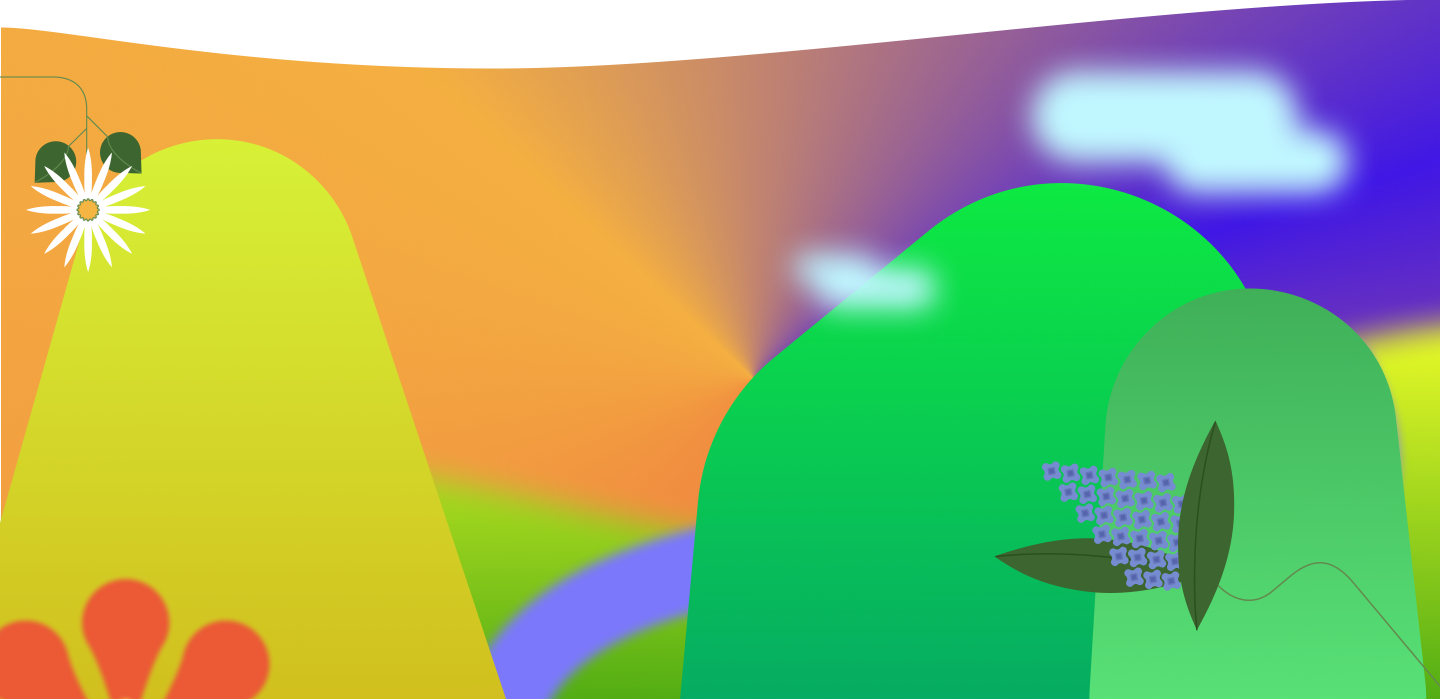
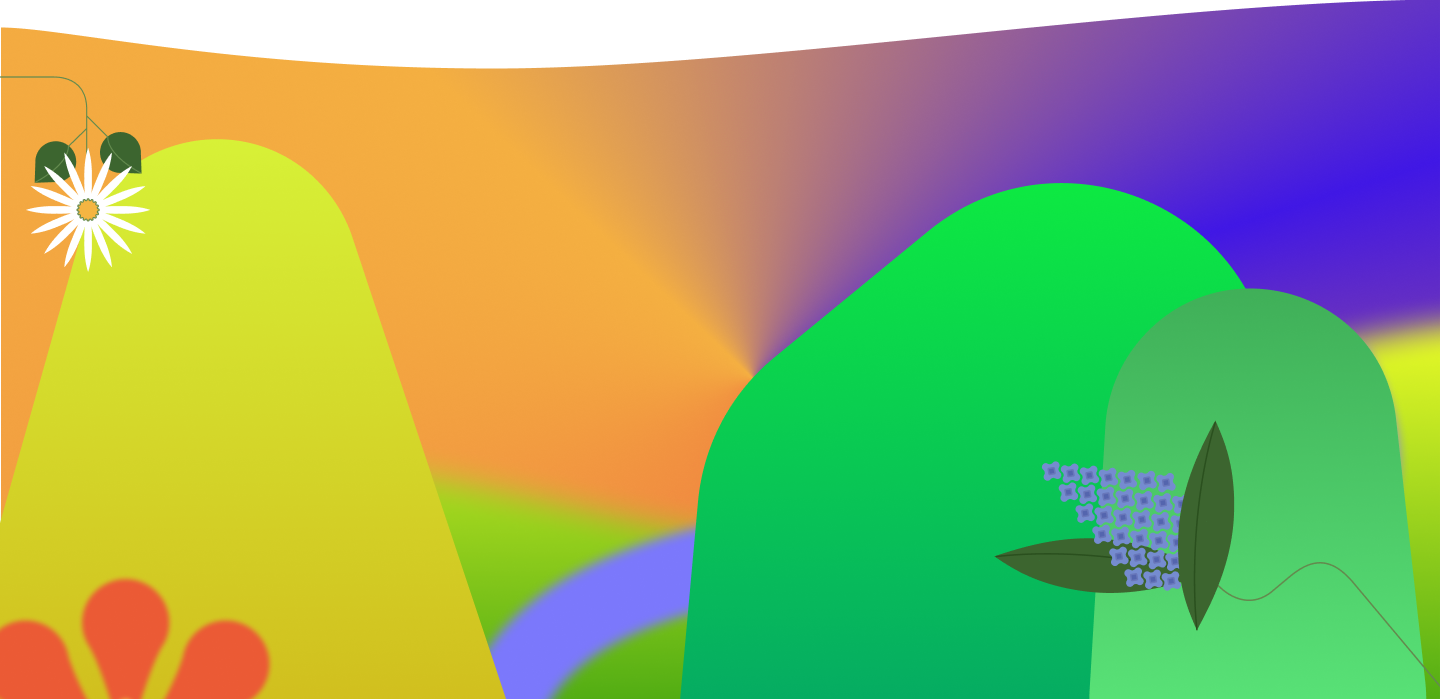
Ajout des images modifiées nuages

Changed region(s): [[0.6875, 0.0601, 0.9688, 0.3004], [0.5312, 0.3305, 0.6562, 0.4807]]

diff --git a/wp-content/themes/foce-child/sass/layouts/_front-page.scss b/wp-content/themes/foce-child/sass/layouts/_front-page.scss
@@ -65,9 +65,6 @@
       animation: rotateFlowers 10000ms linear infinite;
     }
   }
-
-  
-
   &__article {
     display: flex;
     flex-direction: column;
@@ -91,7 +88,6 @@
       top: 2em;
       animation: rotateFlowers 10000ms linear infinite;
     }
-   
   }
 }
 
@@ -159,6 +155,9 @@
  h2 {
     overflow: hidden;
     background-image: url("../assets/images/purple_studio_bg.png");
+    display: flex;
+    justify-content: center;
+    gap: 20px;
     &::before {
       content: url('../assets/images/random_flower.png');
       position: absolute;
@@ -173,6 +172,7 @@
     }
 
     span{
+      display: block;
       opacity: 0;
       transform: translateY(50px);
     }

diff --git a/wp-content/themes/foce-child/css/style.css b/wp-content/themes/foce-child/css/style.css
@@ -870,6 +870,9 @@ textarea {
 #studio h2 {
   overflow: hidden;
   background-image: url("../assets/images/purple_studio_bg.png");
+  display: flex;
+  justify-content: center;
+  gap: 20px;
 }
 #studio h2::before {
   content: url("../assets/images/random_flower.png");
@@ -884,6 +887,7 @@ textarea {
   top: 1.2em;
 }
 #studio h2 span {
+  display: block;
   opacity: 0;
   transform: translateY(50px);
 }

diff --git a/wp-content/themes/foce-child/js/custom-animation.js b/wp-content/themes/foce-child/js/custom-animation.js
@@ -10,7 +10,7 @@
                         setTimeout(() => {
                             span.classList.add('animated');
                         }, delay);
-                        delay += 200; // Delay between each word animation
+                        delay += 500; // Delay between each word animation
                     });
                     return;
                 }
